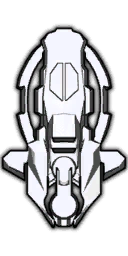
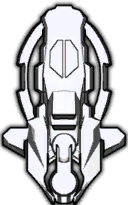
phoenix shield

diff --git a/src/components/Icon.vue b/src/components/Icon.vue
@@ -50,6 +50,7 @@ const bgClasses = {
     'space-building-bg': type === 'SpaceBuilding' && !isCerberus && (!spaceBuildsNoBG.includes(props.name as string)),
     'art-bg': props.name === 'art',
     'interceptor': props.name === 'Fighter_Cerberus3_DrkNeb_lv1',
+    'phoenix': props.name === 'Fighter_DrkNeb_Cerberus4_lv1',
 };
 const iconStyle = {
     backgroundImage: `url('${url}')`,
@@ -203,6 +204,11 @@ function getUrl() {
         filter: opacity(0.5) drop-shadow(0.1px 0px 0px #f52656);
         animation-duration: 5s;
     }
+}
+.phoenix {
+    background-image: url(../img/game/background/AreaShieldRing01.png), url(../img/game/background/ShipShield.png);
+    background-size: auto 100%;
+    filter: opacity(0.5) drop-shadow(0.1px 0px 0px #f66d8f);
 }
 
 @keyframes rotate {
